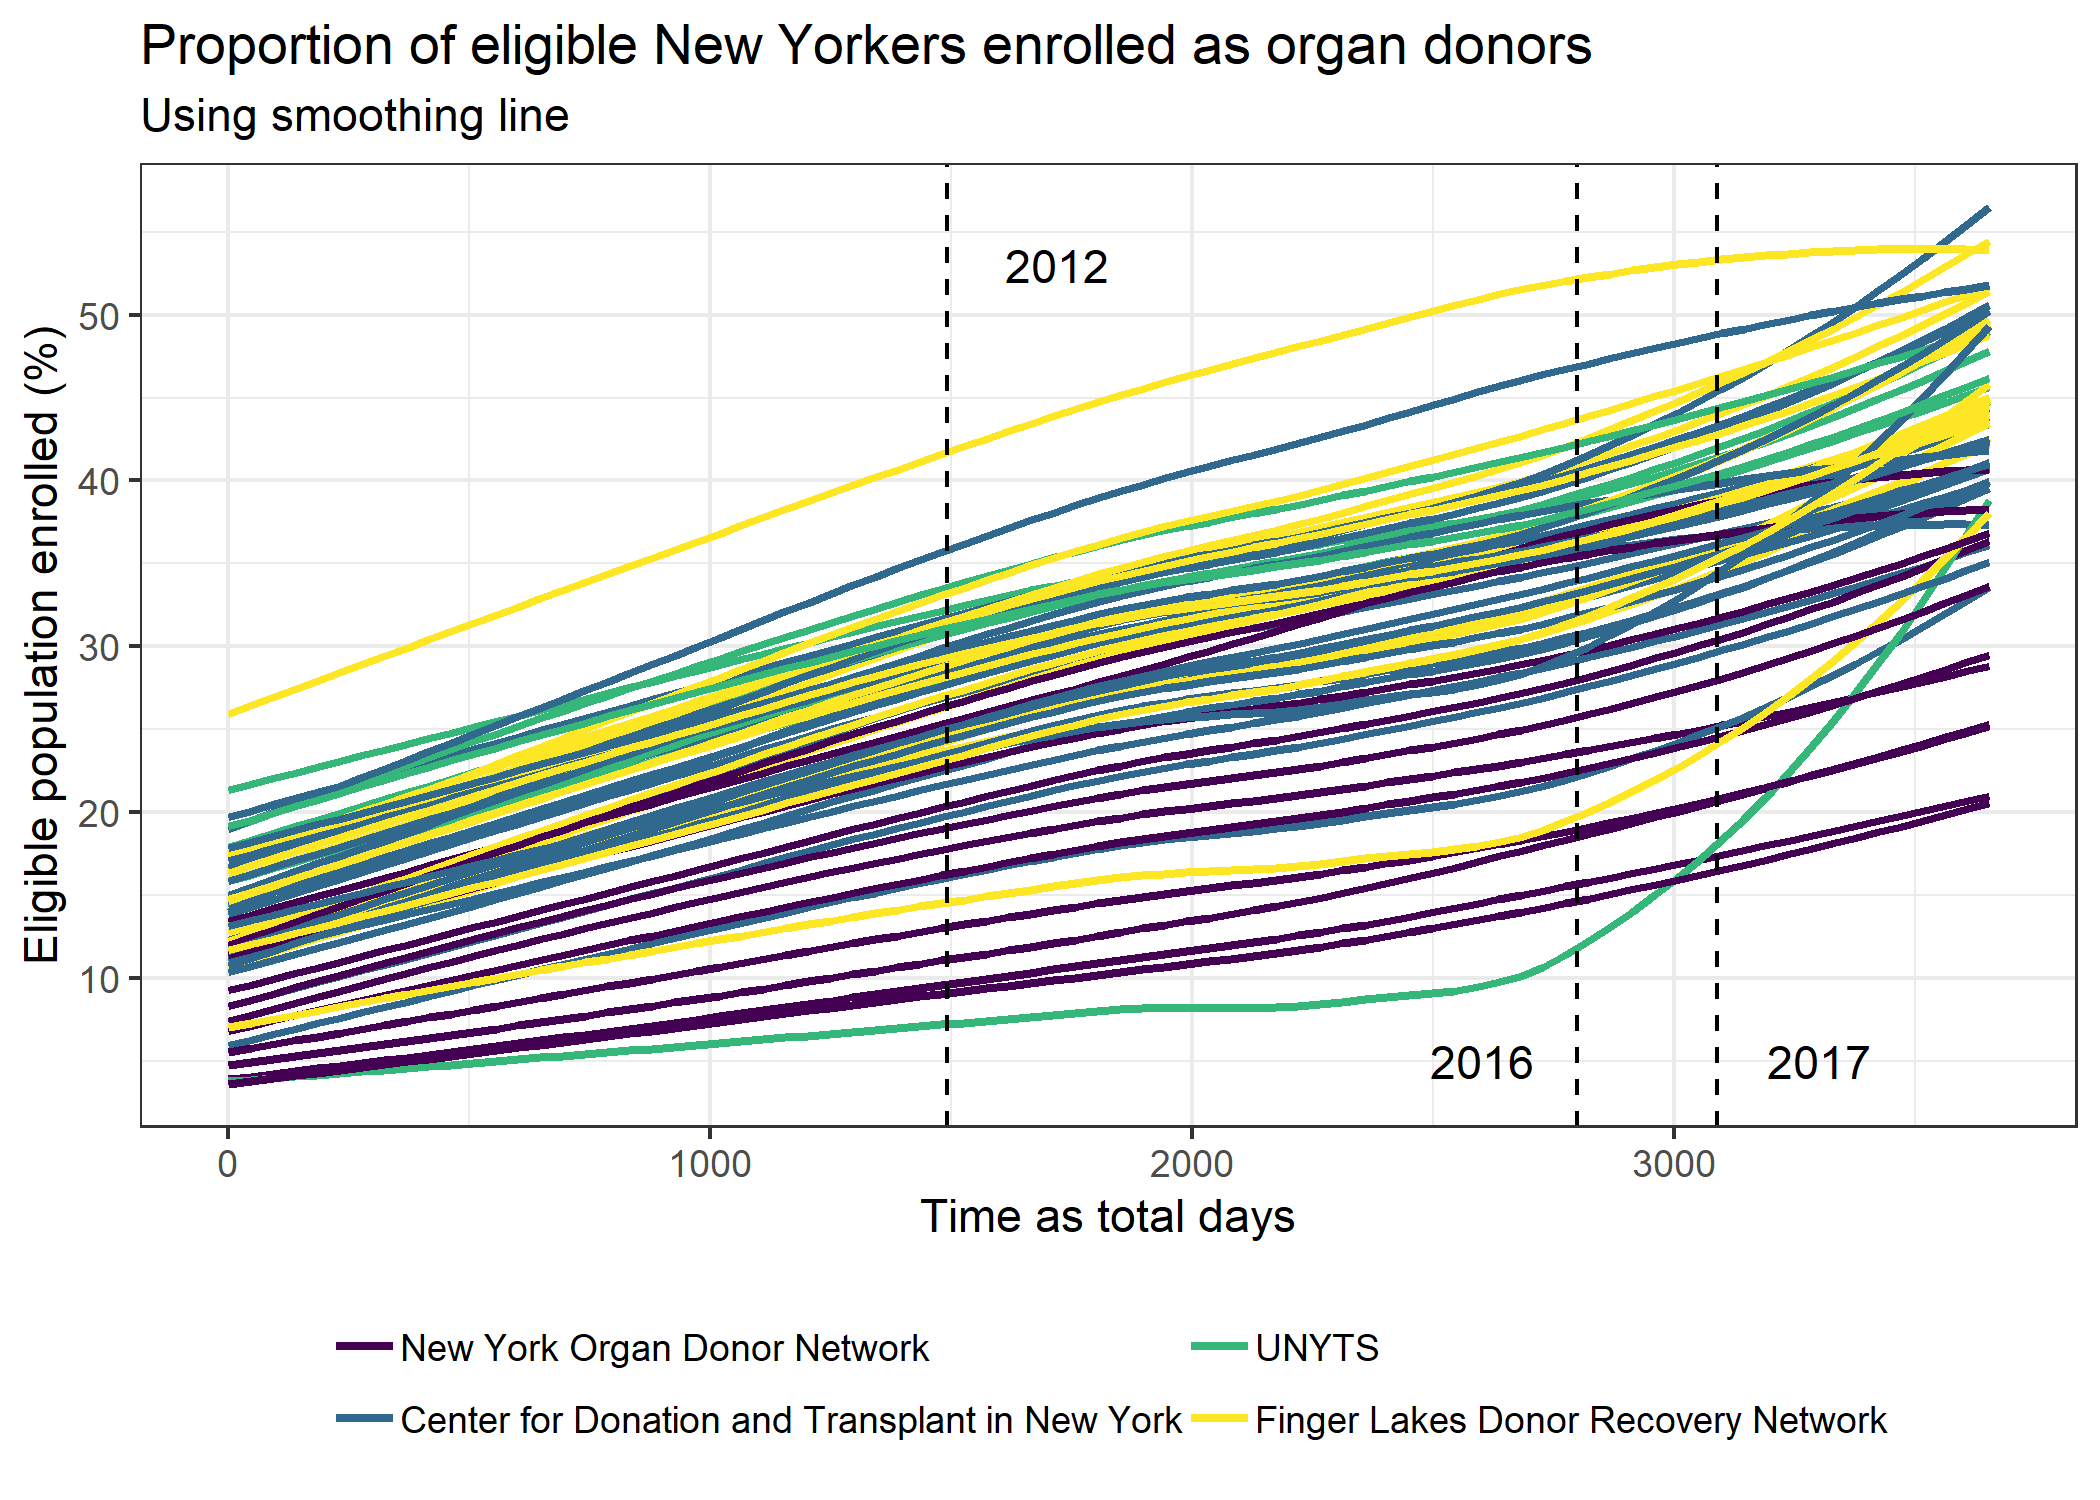
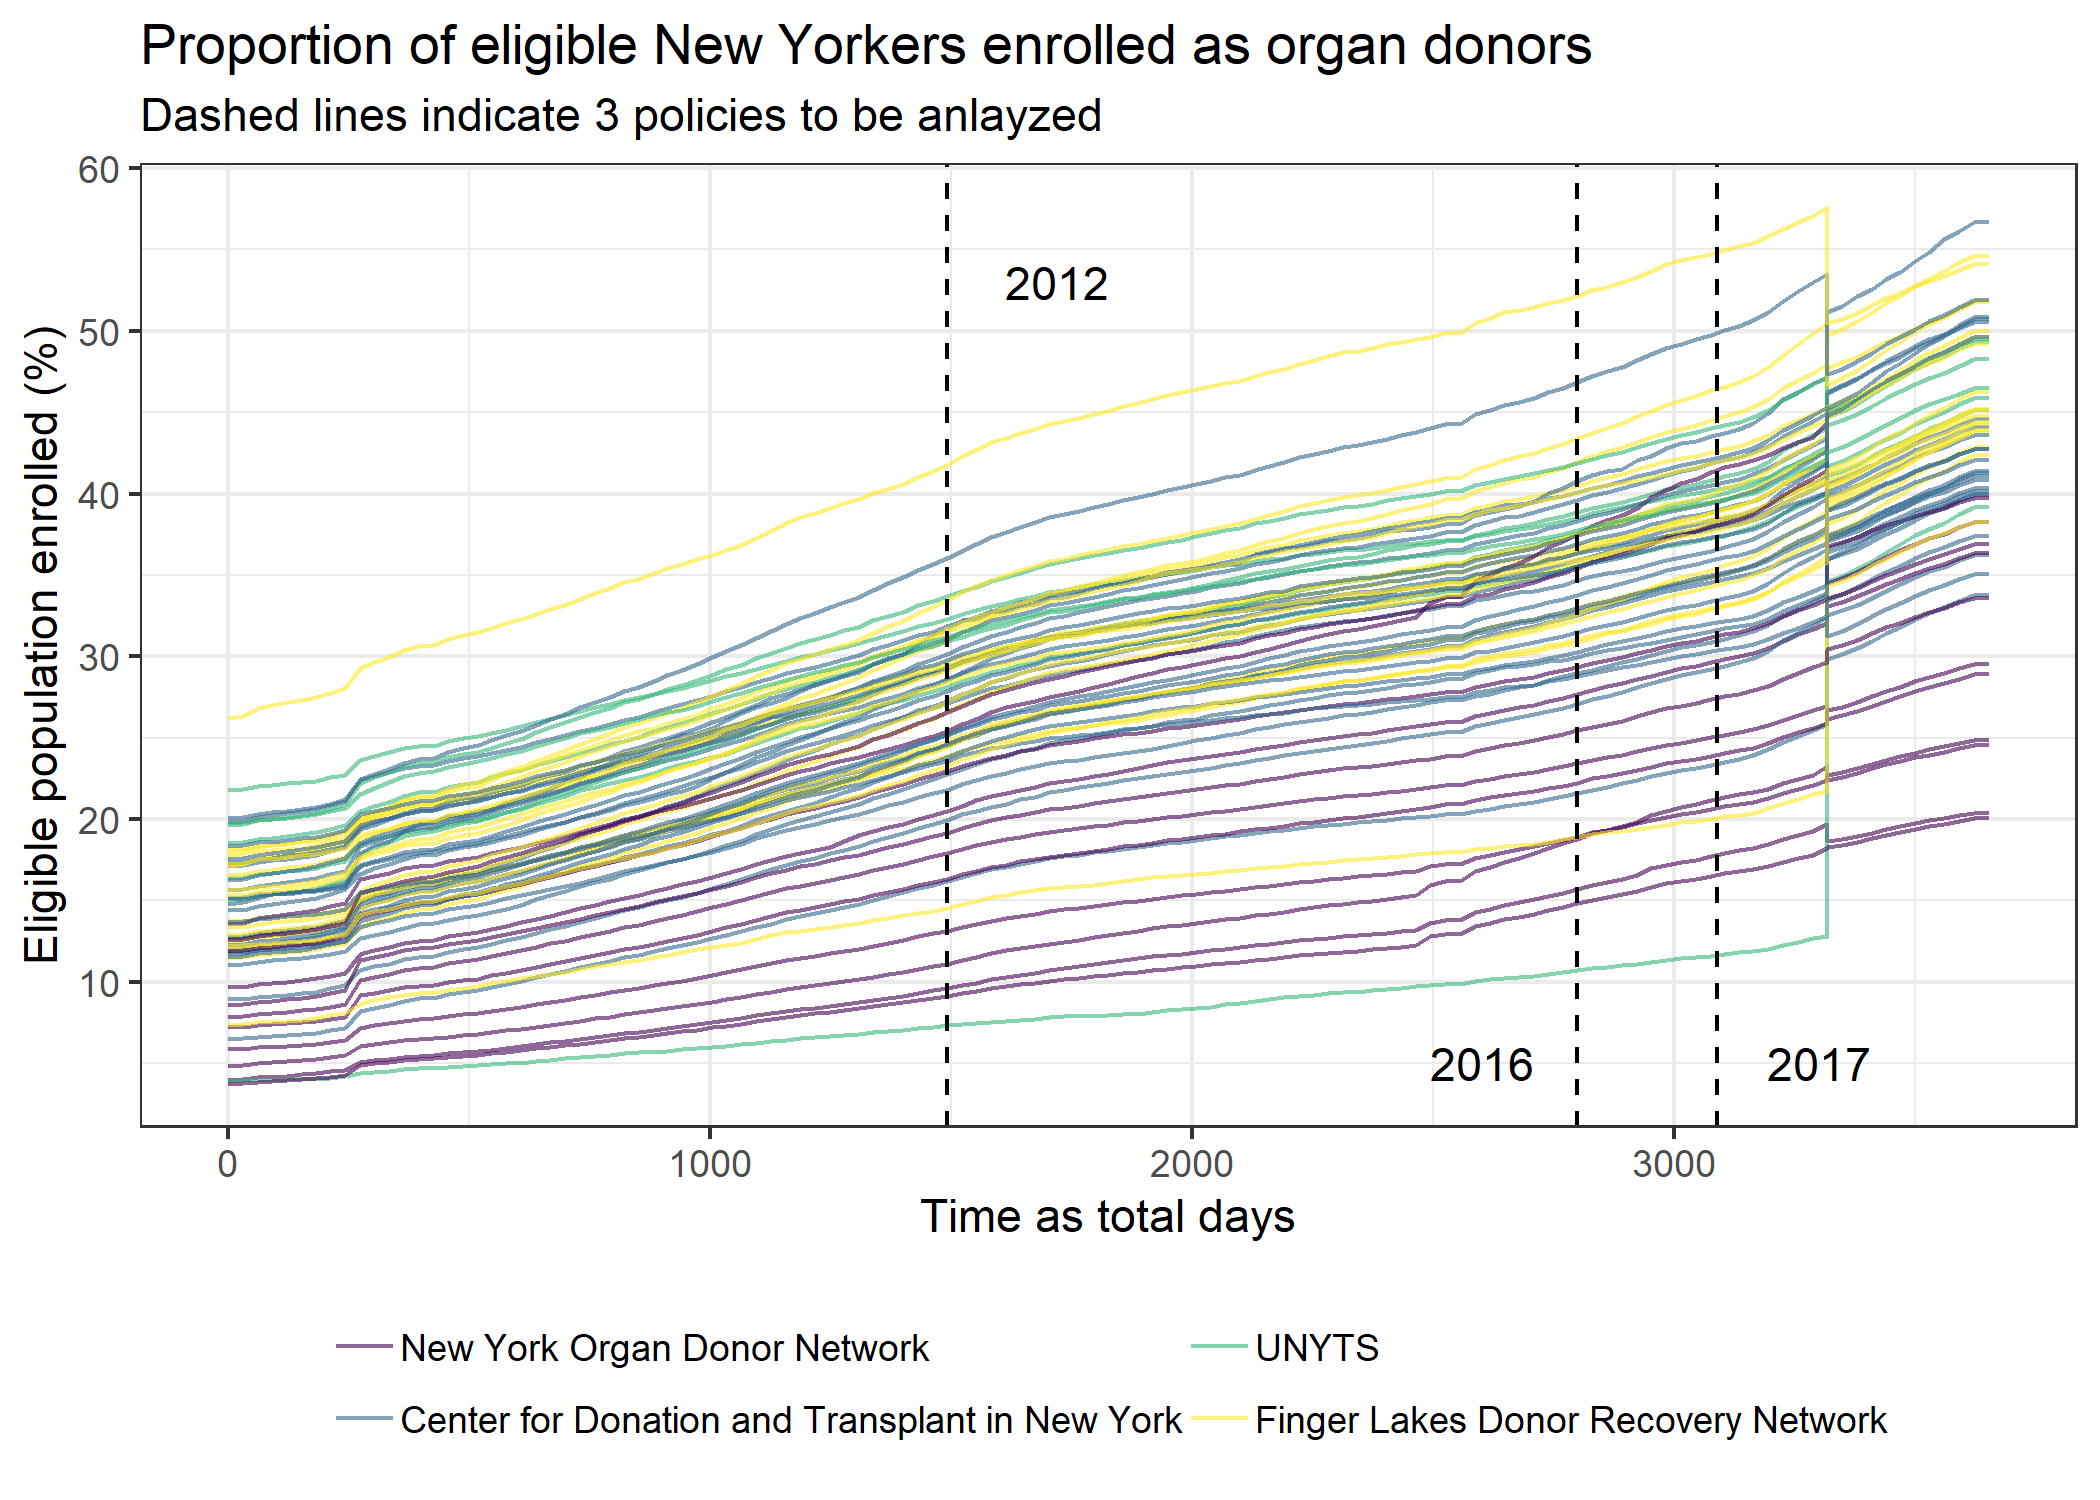
deleted extra plot, changed smoothed lines to normal lines

diff --git a/p8105_final_report.md b/p8105_final_report.md
@@ -69,11 +69,11 @@ Extra county level data came from Area Health Resources Files (AHRF). AHRF data 
 library(haven)
 
 ahrf <- 
-  read_sas("C:/Users/niwi8/OneDrive - cumc.columbia.edu/Practicum/opioid_prediction/data/raw/ahrf.sas7bdat")
+  read_sas("data/ahrf.sas7bdat")
 
 ahrf_selected <- read_csv("data/ahrf_selected_variables.csv")
   
-check_label <- function(x){
+check_label <- function(x) {
   if (attr(ahrf[[x]], "label") %in% ahrf_selected$label) {
     return(x)
   }
@@ -140,8 +140,14 @@ organ %>%
     labs(title = "Eligible Population vs Percent Enrolled by County",
          x = "Estimated Population 18 and Over",
          y = "Percent of Eligible Population Enrolled") +
-    geom_text_repel(data = lowest_3_counties, aes(x = population_18_estimate, y = eligible_population_enrolled, label = county)) +
-    geom_text_repel(data = top_county, aes(x = population_18_estimate, y = eligible_population_enrolled, label = county))
+    geom_text_repel(data = lowest_3_counties, 
+                    aes(x = population_18_estimate, 
+                        y = eligible_population_enrolled, 
+                        label = county)) +
+    geom_text_repel(data = top_county, 
+                    aes(x = population_18_estimate, 
+                        y = eligible_population_enrolled, 
+                        label = county))
 ```
 
 <img src="p8105_final_report_files/figure-markdown_github/population vs. percent-1.png" width="75%" />
@@ -156,11 +162,11 @@ Formal analyses of the effect of major policy changes were conducted using mixed
 ``` r
 organ_sp %>% 
   ggplot() +
-  geom_smooth(aes(x = total_days, y = eligible_population_enrolled, color = opo, group = county), 
-              alpha = 0.4, se = FALSE) +
+  geom_line(aes(x = total_days, y = eligible_population_enrolled, color = opo, group = county), 
+            alpha = 0.6) +
   viridis::scale_color_viridis(discrete = TRUE) + 
   labs(title = "Proportion of eligible New Yorkers enrolled as organ donors",
-       subtitle = "Using smoothing line",
+       subtitle = "Dashed lines indicate 3 policies to be anlayzed",
        x = "Time as total days",
        y = "Eligible population enrolled (%)") +
   geom_vline(xintercept = 1491, linetype = "dashed") + 
@@ -175,48 +181,6 @@ organ_sp %>%
 ```
 
 <img src="p8105_final_report_files/figure-markdown_github/no model-1.png" width="75%" />
-
-<table class="table table-hover table-striped" style="width: auto !important; margin-left: auto; margin-right: auto;">
-<thead>
-<tr>
-<th style="text-align:left;">
-Term
-</th>
-<th style="text-align:right;">
-Coefficient
-</th>
-<th style="text-align:right;">
-SE
-</th>
-<th style="text-align:right;">
-Lower bound
-</th>
-<th style="text-align:right;">
-Upper bound
-</th>
-</tr>
-</thead>
-<tbody>
-<tr>
-<td style="text-align:left;">
-Time (year)
-</td>
-<td style="text-align:right;">
-2.675
-</td>
-<td style="text-align:right;">
-0.008
-</td>
-<td style="text-align:right;">
-2.66
-</td>
-<td style="text-align:right;">
-2.69
-</td>
-</tr>
-</tbody>
-</table>
-<img src="p8105_final_report_files/figure-markdown_github/overall time-1.png" width="75%" />
 
 <table class="table table-hover table-striped" style="width: auto !important; margin-left: auto; margin-right: auto;">
 <thead>
